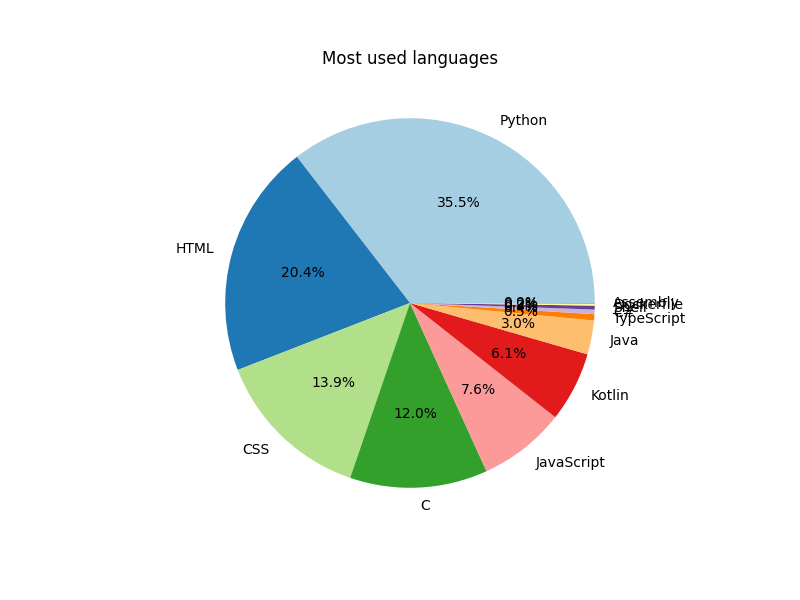
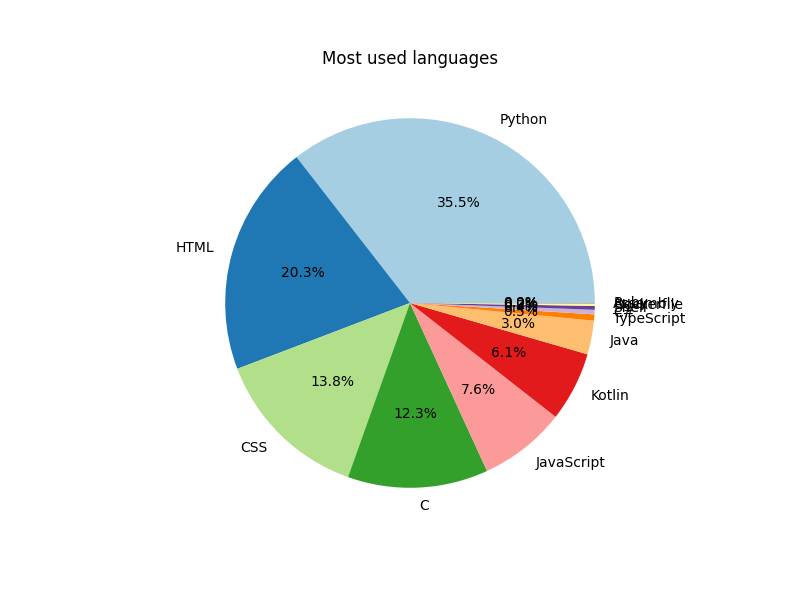
Mise à jour automatique du README avec les statistiques des langages

diff --git a/README.md b/README.md
@@ -47,11 +47,11 @@ Here are the languages I used:
 
 ![Languages used](languages.png)
 
-- **Python**: 495311 lines
+- **Python**: 499281 lines
 - **HTML**: 285055 lines
 - **CSS**: 193407 lines
-- **C**: 168065 lines
-- **JavaScript**: 106072 lines
+- **C**: 172731 lines
+- **JavaScript**: 106744 lines
 - **Kotlin**: 85487 lines
 - **Java**: 41506 lines
 - **TypeScript**: 7619 lines
@@ -59,6 +59,7 @@ Here are the languages I used:
 - **Shell**: 4759 lines
 - **Dockerfile**: 2527 lines
 - **Assembly**: 599 lines
+- **Ruby**: 365 lines
 <!-- LANGUAGES -->
 <!---
 loufi84/loufi84 is a ✨ special ✨ repository because its `README.md` (this file) appears on your GitHub profile.
